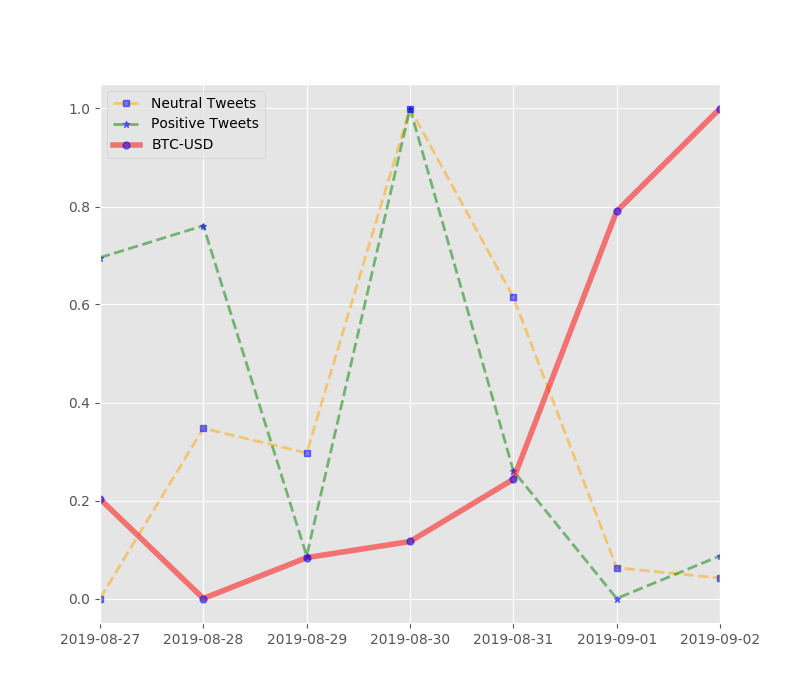
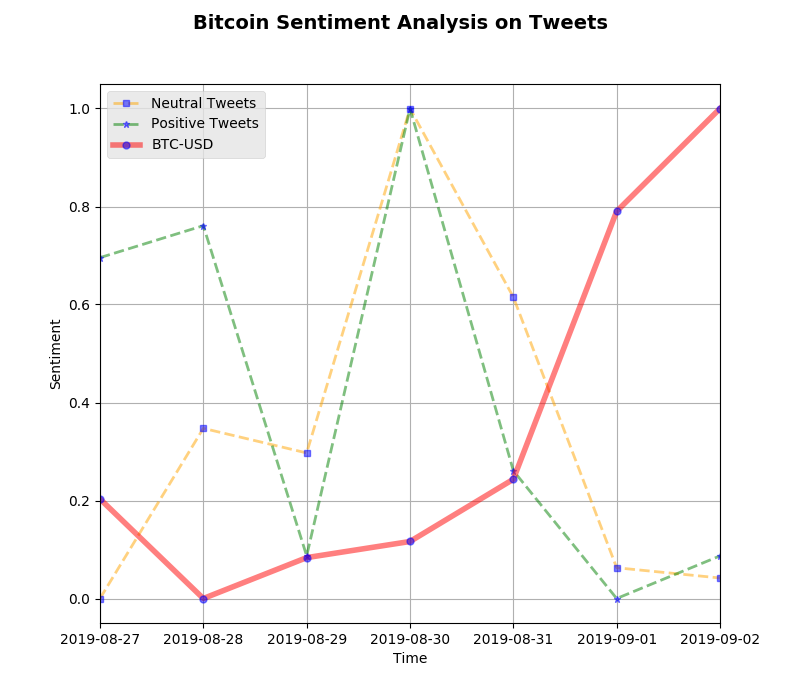
end sentiment analysis

diff --git a/app/stock_analysis.py b/app/stock_analysis.py
@@ -131,6 +131,9 @@ def prediction_data(stock, days):
     mpl.rc('figure', figsize=(8, 7))
     mpl.__version__
 
+    plt.suptitle('Bitcoin Sentiment Analysis on Tweets', fontsize=14, fontweight='bold')
+    plt.ylabel('Sentiment')
+    plt.xlabel('Time')
     # Adjust the style of matplotlib
     style.use(['ggplot'])
     style.context('Solarize_Light2')
@@ -178,43 +181,6 @@ def prediction_data(stock, days):
 
 if __name__ == '__main__':
     stock = 'BTC-USD'
-    days = 1
+    days = 10
 
     prediction_data(stock, days)
-
-# start = datetime.datetime(2019, 1, 1)
-# end = datetime.datetime(2019, 9, 3)
-#
-# df = web.DataReader("BTC-USD", 'yahoo', start, end)
-# print(df.tail())
-#
-# # Determine trend using Moving Average and remove "noises".
-# final_close_price = df['Adj Close']
-# last_days = 20
-# moving_avarage = final_close_price.rolling(window=last_days).mean()
-# # print(moving_avarage)
-#
-# # Adjust the size of mathplotlib
-# mpl.rc('figure', figsize=(8, 7))
-# mpl.__version__
-#
-# # Adjust the style of matplotlib
-# style.use('ggplot')
-#
-# tweet_df = pd.read_csv('analysis.csv')
-# LE = LabelEncoder()
-# tweet_df['code'] = LE.fit_transform(tweet_df['sentiment'])
-# tweet_sentiment_code = tweet_df['code']
-# tweet_date = tweet_df['created_at']
-#
-# print(tweet_df.tail())
-# # tweet_sentiment_code.plot(label='Sentiment')
-# final_close_price.plot(label='BTC-USD')
-# moving_avarage.plot(label='moving average based on last {} days.'.format(last_days))
-#
-# # plt.legend()
-# # plt.show()
-#
-# # Determine Risk and Return
-# rets = final_close_price / final_close_price.shift(1) - 1
-# rets.plot(label = 'return')

diff --git a/app/tweet_sentiment.py b/app/tweet_sentiment.py
@@ -51,4 +51,9 @@ for tweet in public_tweets:
 
 
 tweet_df = pd.DataFrame(data)
+
+# if not os.path.isfile("exports/analysis.csv"):
+#     f = open("exports/analysis.csv", "w")
+#     f.close()
+
 tweet_df.to_csv('exports/analysis.csv')
